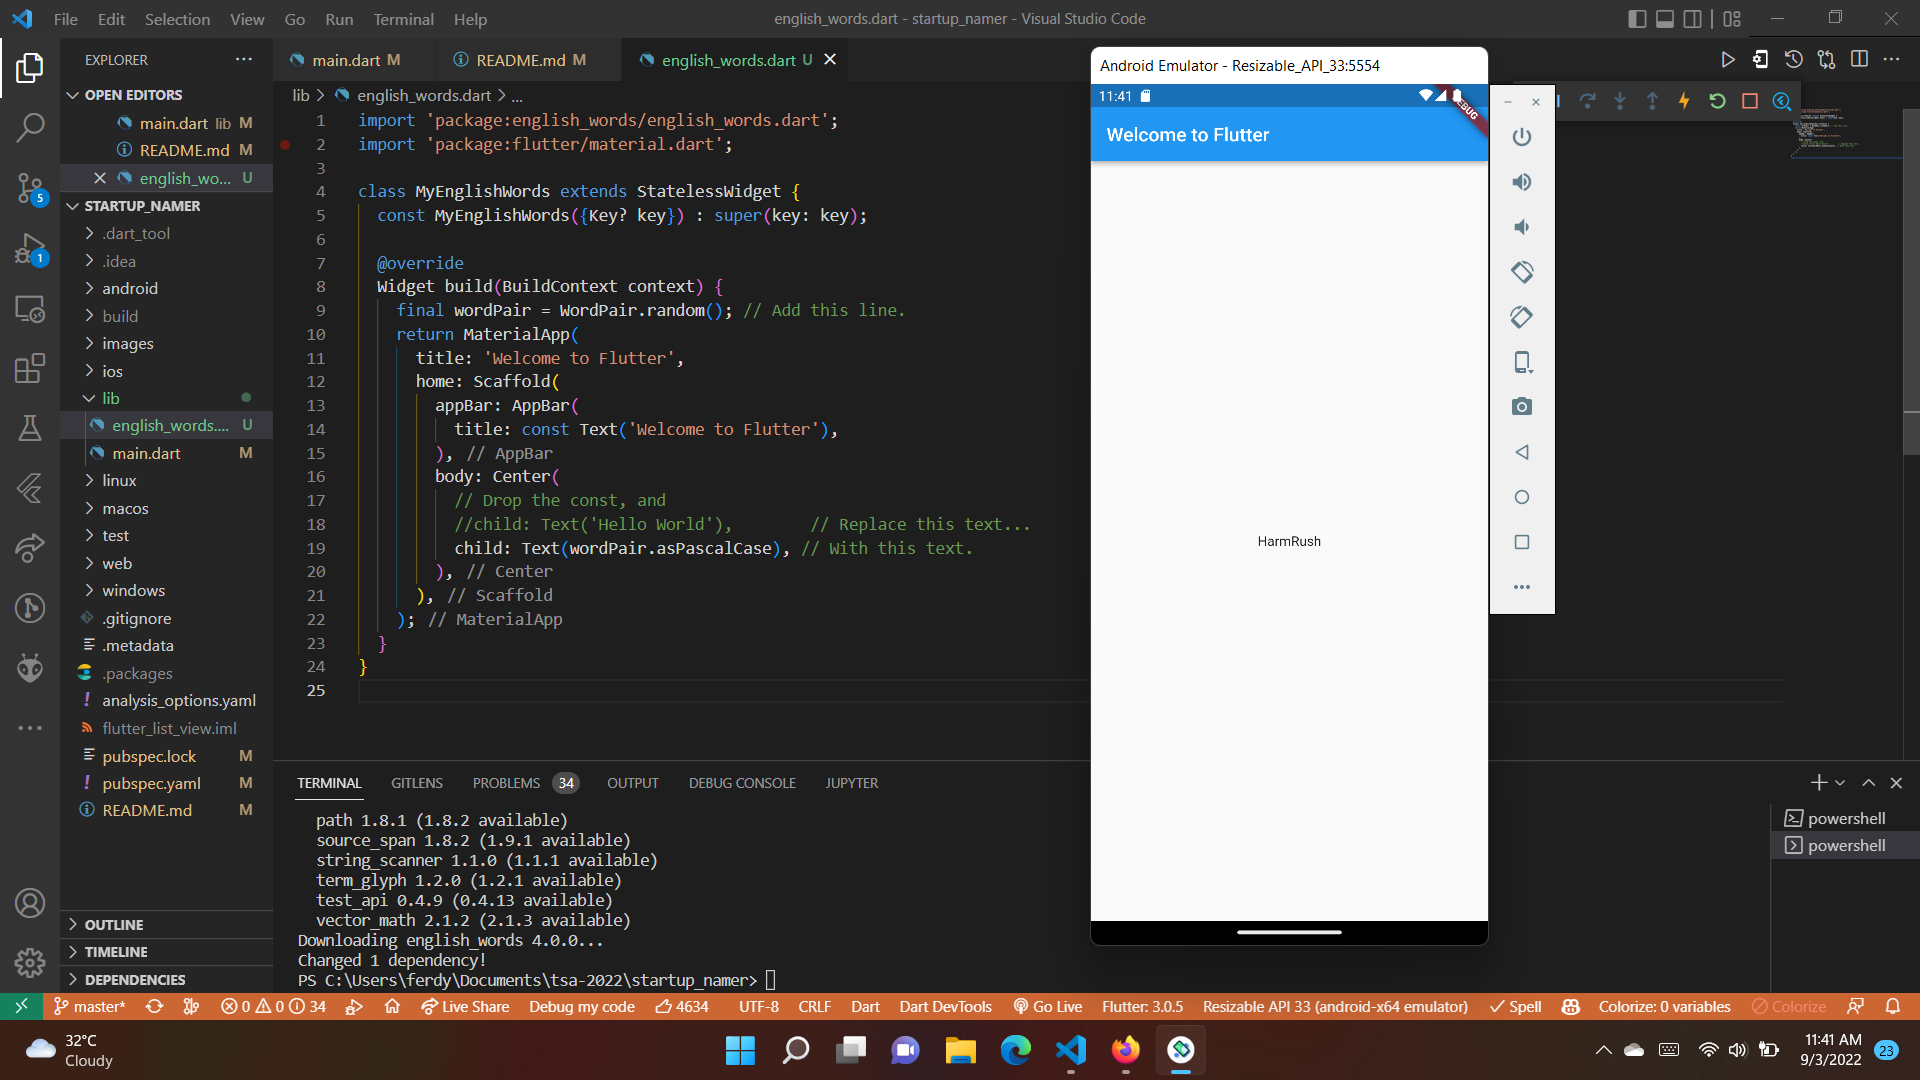
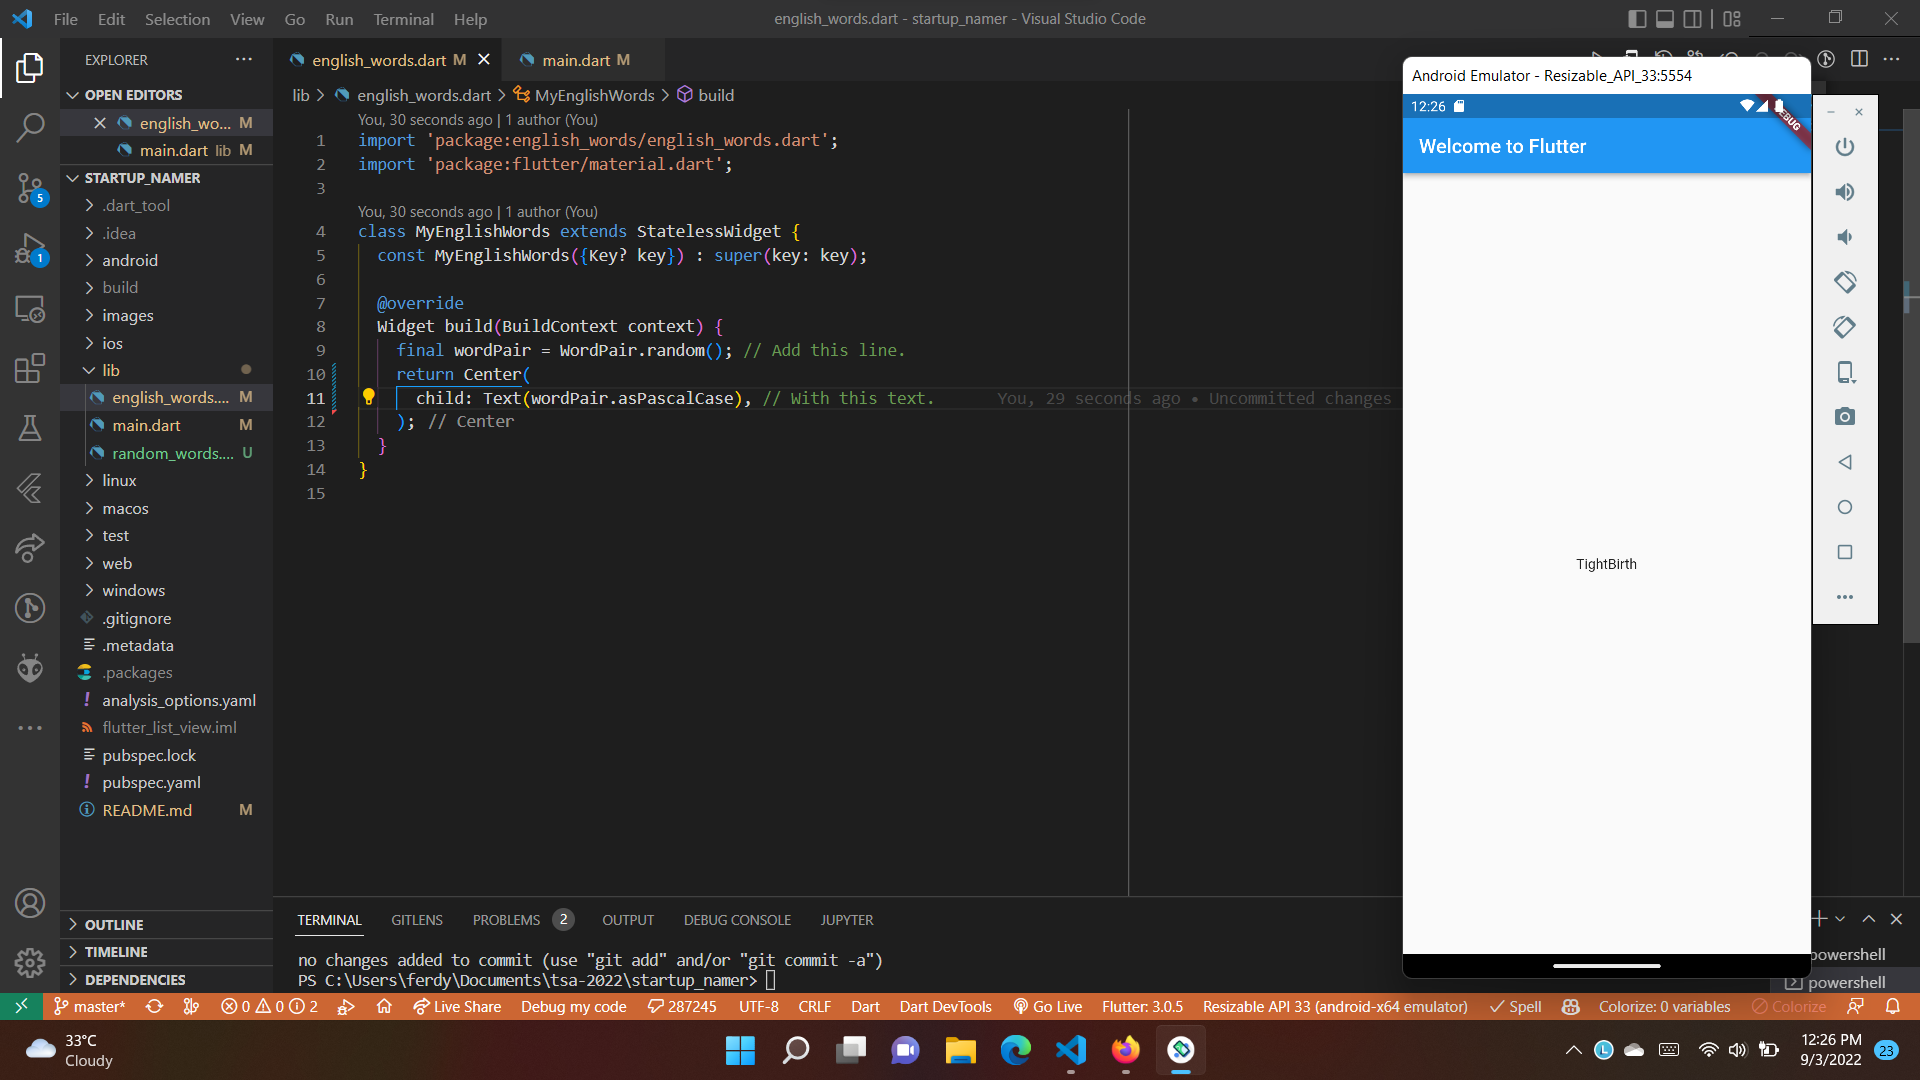
update praktikum 2

diff --git a/lib/english_words.dart b/lib/english_words.dart
@@ -7,18 +7,8 @@ class MyEnglishWords extends StatelessWidget {
   @override
   Widget build(BuildContext context) {
     final wordPair = WordPair.random(); // Add this line.
-    return MaterialApp(
-      title: 'Welcome to Flutter',
-      home: Scaffold(
-        appBar: AppBar(
-          title: const Text('Welcome to Flutter'),
-        ),
-        body: Center(
-          // Drop the const, and
-          //child: Text('Hello World'),        // Replace this text...
-          child: Text(wordPair.asPascalCase), // With this text.
-        ),
-      ),
+    return Center(
+      child: Text(wordPair.asPascalCase), // With this text.
     );
   }
 }
